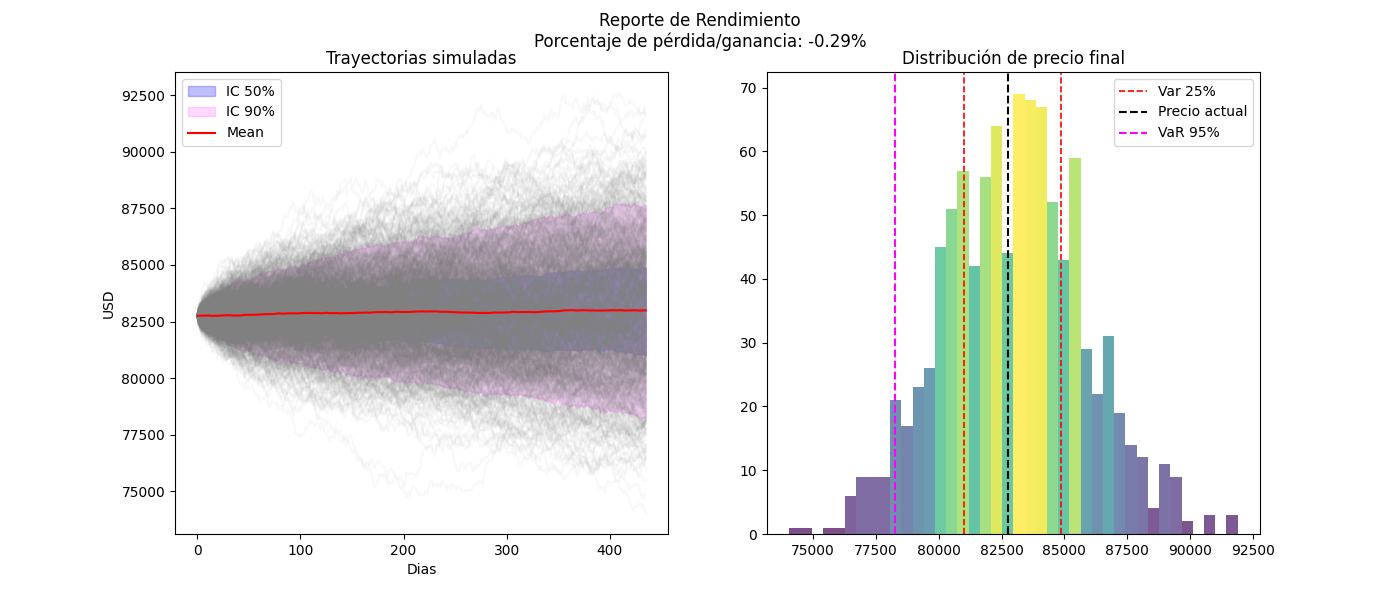
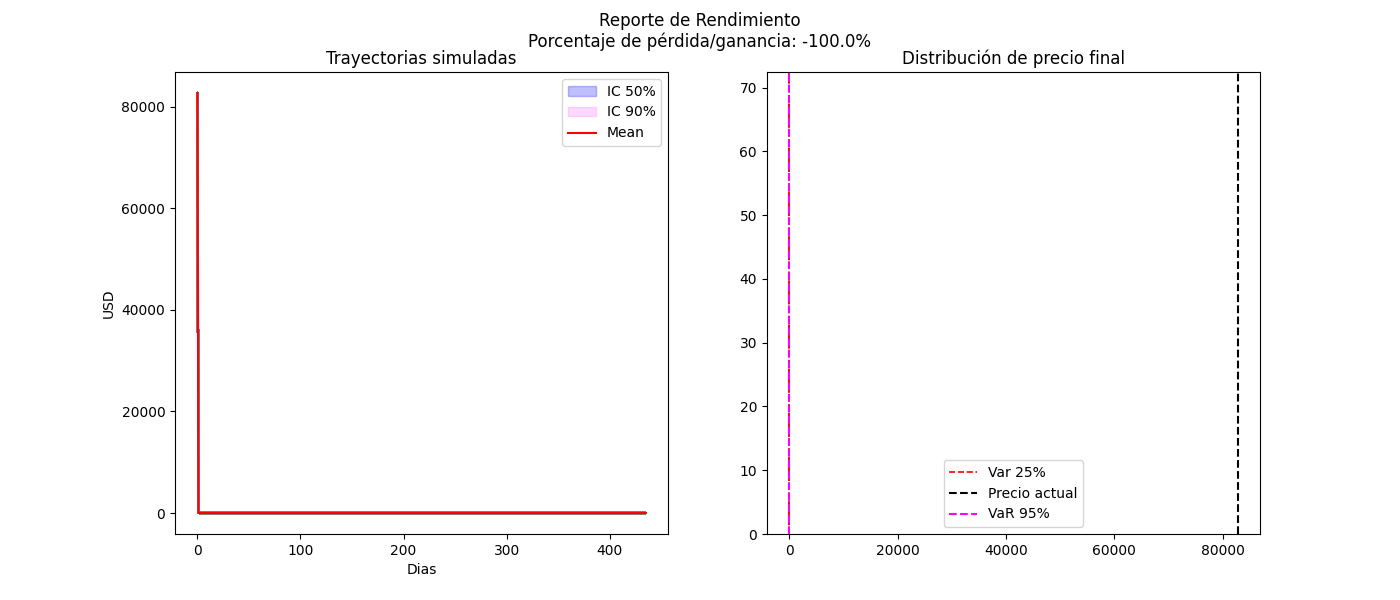
Version 2 - implemetacion de logging, upt de clases de simulacion y agregado el modelo Heston

diff --git a/main.py b/main.py
@@ -4,39 +4,104 @@ Reproduce el flujo completo del notebook MC_Heston_BSM.ipynb.
 """
 
 import numpy as np
+
+from src.logger import get_logger, log_parametros_simulacion, log_metricas_riesgo
 from src.data_handler import descargar_datos, manipulate_data
-from src.mc_simulator import MonteCarloSimulator
+from src.Model import BSMmodel, HestonModel 
+
+import time
+
+logger = get_logger(__name__)
+
+# Configuración
+TICKER           = "SQM-B.SN"
+FECHA_INICIO     = "2016-10-10"
+N_SIMULACIONES   = 1_000
+RANDOM_SEED      = 0
 
 
-def main():
-    # ------------------------------------------------------------------ #
-    # 1. Descarga de datos                                                 #
-    # ------------------------------------------------------------------ #
-    df_sqm = descargar_datos("SQM-B.SN", start="2016-10-10")
+def main() -> None:
+    """
+    Orquesta el pipeline completo: descarga → análisis → simulación → reporte.
+    """
+    # 1. Descarga de datos 
+    logger.info("Descargando datos históricos desde Yahoo Finance...")
+    try:
+        df_sqm = descargar_datos(TICKER, start=FECHA_INICIO)
+        logger.info("Datos descargados correctamente | filas=%d", len(df_sqm))
+    except Exception as e:
+        logger.critical("Fallo al descargar datos para %s: %s", TICKER, e, exc_info=True)
+        raise
 
-    # ------------------------------------------------------------------ #
-    # 2. Procesamiento y análisis exploratorio                             #
-    # ------------------------------------------------------------------ #
-    datos = manipulate_data(df_sqm)
-    datos.informe()
-    datos.informe_visual()
+    # 2. Procesamiento y análisis exploratorio 
+    logger.info("Procesando y analizando datos...")
+    try:
+        datos = manipulate_data(df_sqm)
+        datos.informe()
+        datos.informe_visual()
 
-    # ------------------------------------------------------------------ #
-    # 3. Simulación Monte Carlo (BSM)                                      #
-    # ------------------------------------------------------------------ #
-    np.random.seed(0)
+    except TypeError as e:
+        logger.error("Error de tipo al procesar datos: %s", e, exc_info=True)
+        raise
+    except Exception as e:
+        logger.critical("Error inesperado en procesamiento de datos: %s", e, exc_info=True)
+        raise
 
-    simulation = MonteCarloSimulator(
-        precio_inicial=datos.precio_inicial,
-        mu=datos.mu,
-        sigma=datos.sigma,
-        N_casos_posibles=1000,
-        dias_de_simulacion=int(datos.days / 8),
-    )
+    # 3. Simulación Monte Carlo (BSM) 
+    logger.info("Configurando simulación Monte Carlo (BSM)...")
+    np.random.seed(RANDOM_SEED)
+    logger.debug("Semilla aleatoria fijada: %d", RANDOM_SEED)
 
-    datos_simulados = simulation.MC_simulation()
-    simulation.reporte()
-    simulation.informe_visual()
+    n_dias = int(datos.days / 8)
+
+    parametros = f"ticker={TICKER}, precio_inicial={datos.precio_inicial}, mu={datos.mu}, sigma={datos.sigma}, n_simulaciones={N_SIMULACIONES}, dias={n_dias}"
+    log_parametros_simulacion(logger=logger,parameter=parametros)
+
+    inicio = time.time()
+
+    try:
+        simulation = BSMmodel(
+            precio_inicial=datos.precio_inicial,
+            mu=datos.mu,
+            sigma=datos.sigma,
+            N_casos_posibles=N_SIMULACIONES,
+            dias_de_simulacion=n_dias,
+            optimize="NumpyVectorization"
+        )
+
+        simulation.simulate()
+        datos_simulados = simulation.S_t
+
+    except Exception as e:
+        logger.critical("Fallo durante la simulación Monte Carlo: %s", e, exc_info=True)
+        raise
+
+    fin = time.time()
+    logger.info(f"Duración: {fin - inicio} segundos")
+
+    # 4. Reporte y visualización 
+    logger.info("Generando reportes y gráficos...")
+    try:
+        simulation.reporte()
+        simulation.informe_visual()
+
+        # Registrar métricas de riesgo en el log
+        precios_finales = datos_simulados[:, -1]
+        retornos = (precios_finales - datos.precio_inicial) / datos.precio_inicial
+        var_95 = float(np.percentile(retornos, 5))
+        cvar_95 = float(retornos[retornos <= var_95].mean())
+        prob_perdida = float((precios_finales < datos.precio_inicial).mean())
+        prob_ganar_20 = float((retornos > 0.20).mean())
+
+        mensaje_riesgo = f"VaR 95%: {var_95 * 100:.2f}%, CVaR 95%: {cvar_95 * 100:.2f}%, Probabilidad de pérdida: {prob_perdida * 100:.1f}%, Probabilidad de +20%: {prob_ganar_20 * 100:.1f}%"
+        log_metricas_riesgo(logger, mensaje_riesgo)
+
+        logger.info("Gráficos guardados correctamente.")
+    except Exception as e:
+        logger.error("Error al generar reportes: %s", e, exc_info=True)
+        raise
+
+    logger.info("Pipeline completado exitosamente.")
 
 
 if __name__ == "__main__":

diff --git a/src/mc_simulator.py b/src/mc_simulator.py
@@ -5,6 +5,8 @@ Módulo del Simulador Monte Carlo (modelo Black-Scholes-Merton).
 import numpy as np
 import matplotlib.pyplot as plt
 from matplotlib import colors
+from abc import ABC, abstractmethod
+from src.logger import get_logger
 
 
 class MonteCarloSimulator:
@@ -47,31 +49,11 @@ class MonteCarloSimulator:
         self.dias_de_simulacion = dias_de_simulacion
         self.S_t = None
 
-    def MC_simulation(self) -> np.ndarray:
+    @abstractmethod
+    def simulate(self) -> np.ndarray:
         """
         Ejecuta la simulación de Monte Carlo (BSM) y devuelve las trayectorias.
-
-        Input:
-            None
-
-        Output:
-            np.ndarray: Matriz de shape (N_casos_posibles, dias_de_simulacion)
-                        con los precios simulados.
         """
-        dt = 1 / self.dias_de_trending
-        Z = np.random.normal(size=(self.N_casos_posibles, self.dias_de_simulacion - 1))
-
-        drift = self.mu - 0.5 * self.sigma ** 2
-        self.S_t = np.ones((self.N_casos_posibles, self.dias_de_simulacion))
-
-        self.S_t[:, :2] = self.precio_inicial
-
-        self.S_t[:, 1:] = np.cumprod(
-            self.S_t[:, 1:] * np.exp((drift * dt + self.sigma * Z * np.sqrt(dt))),
-            axis=1,
-        )
-
-        return self.S_t
 
     def informe_visual(self):
         """
@@ -133,9 +115,7 @@ class MonteCarloSimulator:
         axl[1].axvline(x=p25[-1], color="r", linewidth=1.2, ls="--", label="Var 25%")
         axl[1].axvline(x=p75[-1], color="r", linewidth=1.2, ls="--")
         axl[1].axvline(self.precio_inicial, color='black', linestyle='--', label='Precio actual')
-        axl[1].axvline(
-            np.percentile(self.S_t[:, -1], 5), color='magenta', linestyle='--', label='VaR 95%'
-        )
+        axl[1].axvline(np.percentile(self.S_t[:, -1], 5), color='magenta', linestyle='--', label='VaR 95%')
 
         axl[1].set_title('Distribución de precio final')
         axl[1].legend()

diff --git a/src/__init__.py b/src/__init__.py
@@ -4,9 +4,14 @@ Paquete src – Modelos de simulación Monte Carlo financiera.
 
 from .data_handler import manipulate_data, descargar_datos
 from .mc_simulator import MonteCarloSimulator
+from .Model import BSMmodel, HestonModel
+from .logger import get_logger
 
 __all__ = [
     "manipulate_data",
     "descargar_datos",
     "MonteCarloSimulator",
+    "BSMmodel",
+    "HestonModel",
+    "get_logger",
 ]

diff --git a/src/data_handler.py b/src/data_handler.py
@@ -112,7 +112,6 @@ class manipulate_data:
             thispatch.set_facecolor(color)
 
         axl[1].set_title(f"Distribución | Asimetria: {skew(self.activos.Close).round(2)} | Curtosis {kurtosis(self.activos.Close).round(2)}" )
-        axl[1].legend()
 
         fig.suptitle("Reporte Visual del Activo")
         plt.savefig("Reporte Visual del Activo.png")

diff --git a/README.md b/README.md
@@ -87,7 +87,7 @@ Heston y BSM/
 ### 1. Clonar / posicionarse en el directorio del proyecto
 
 ```bash
-cd "Heston y BSM"
+cd "Stochastic-Volatility-Engine"
 ```
 
 ### 2. Construir la imagen